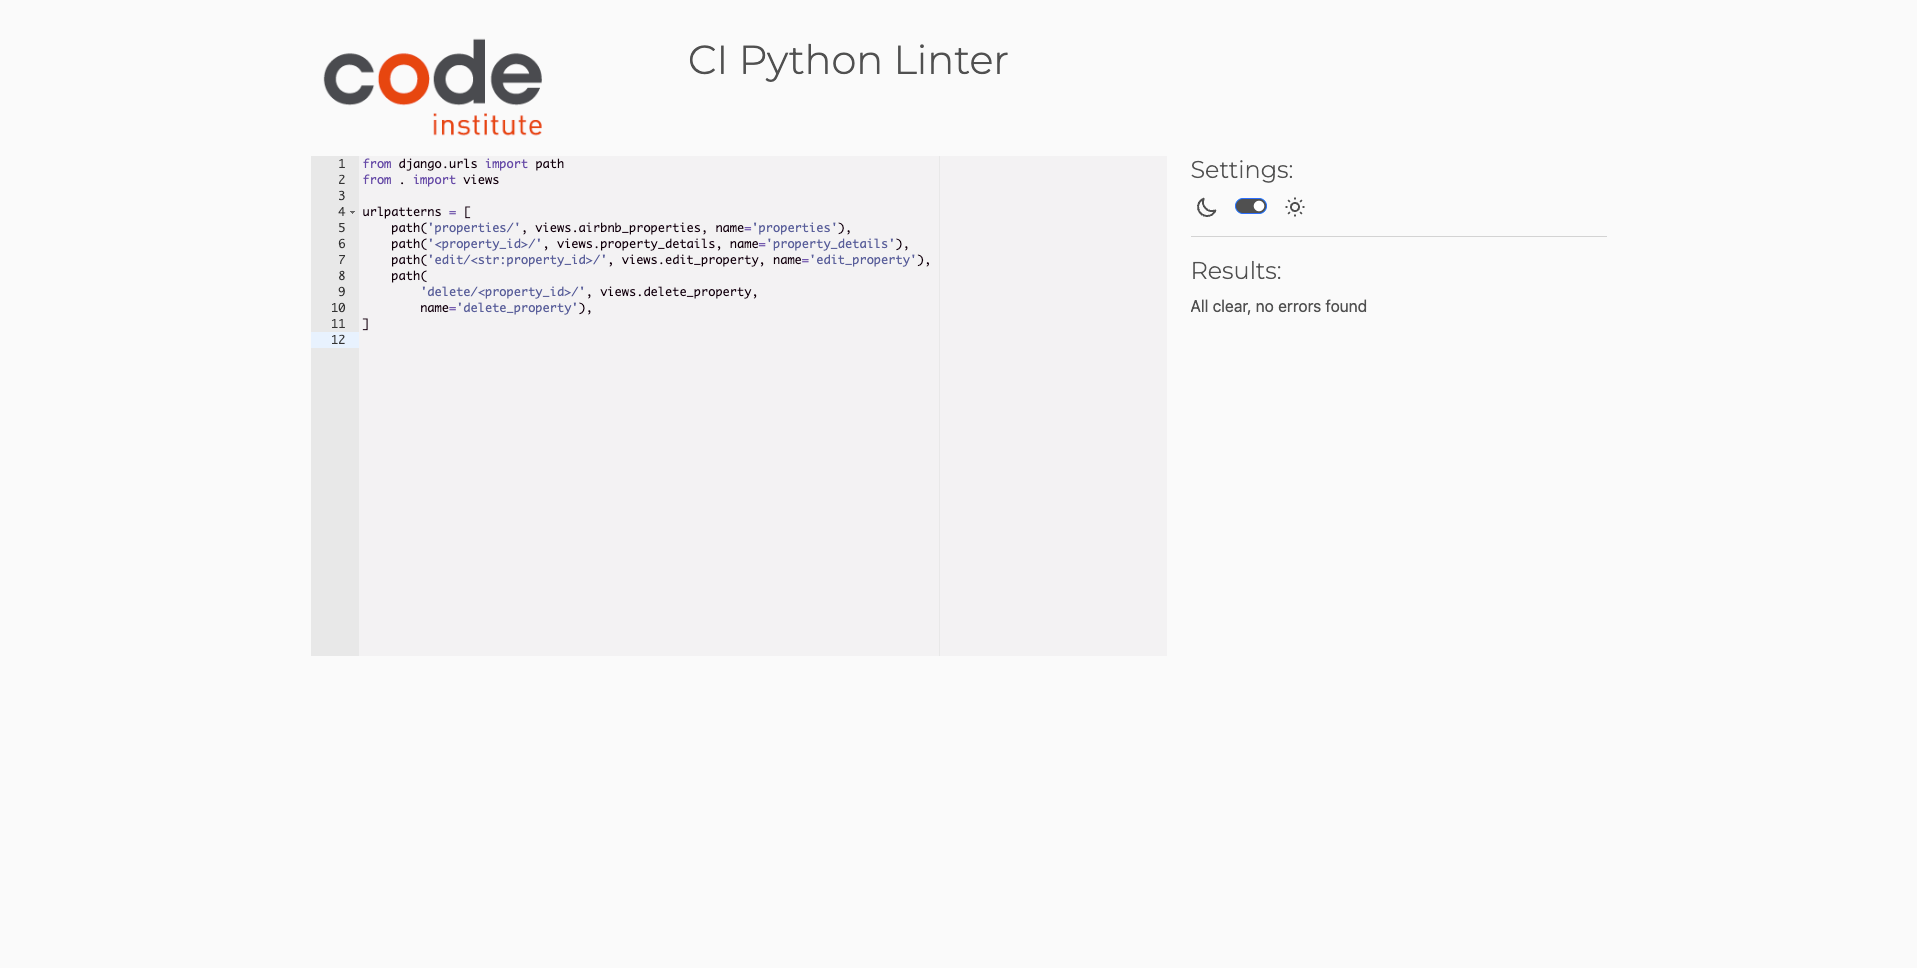
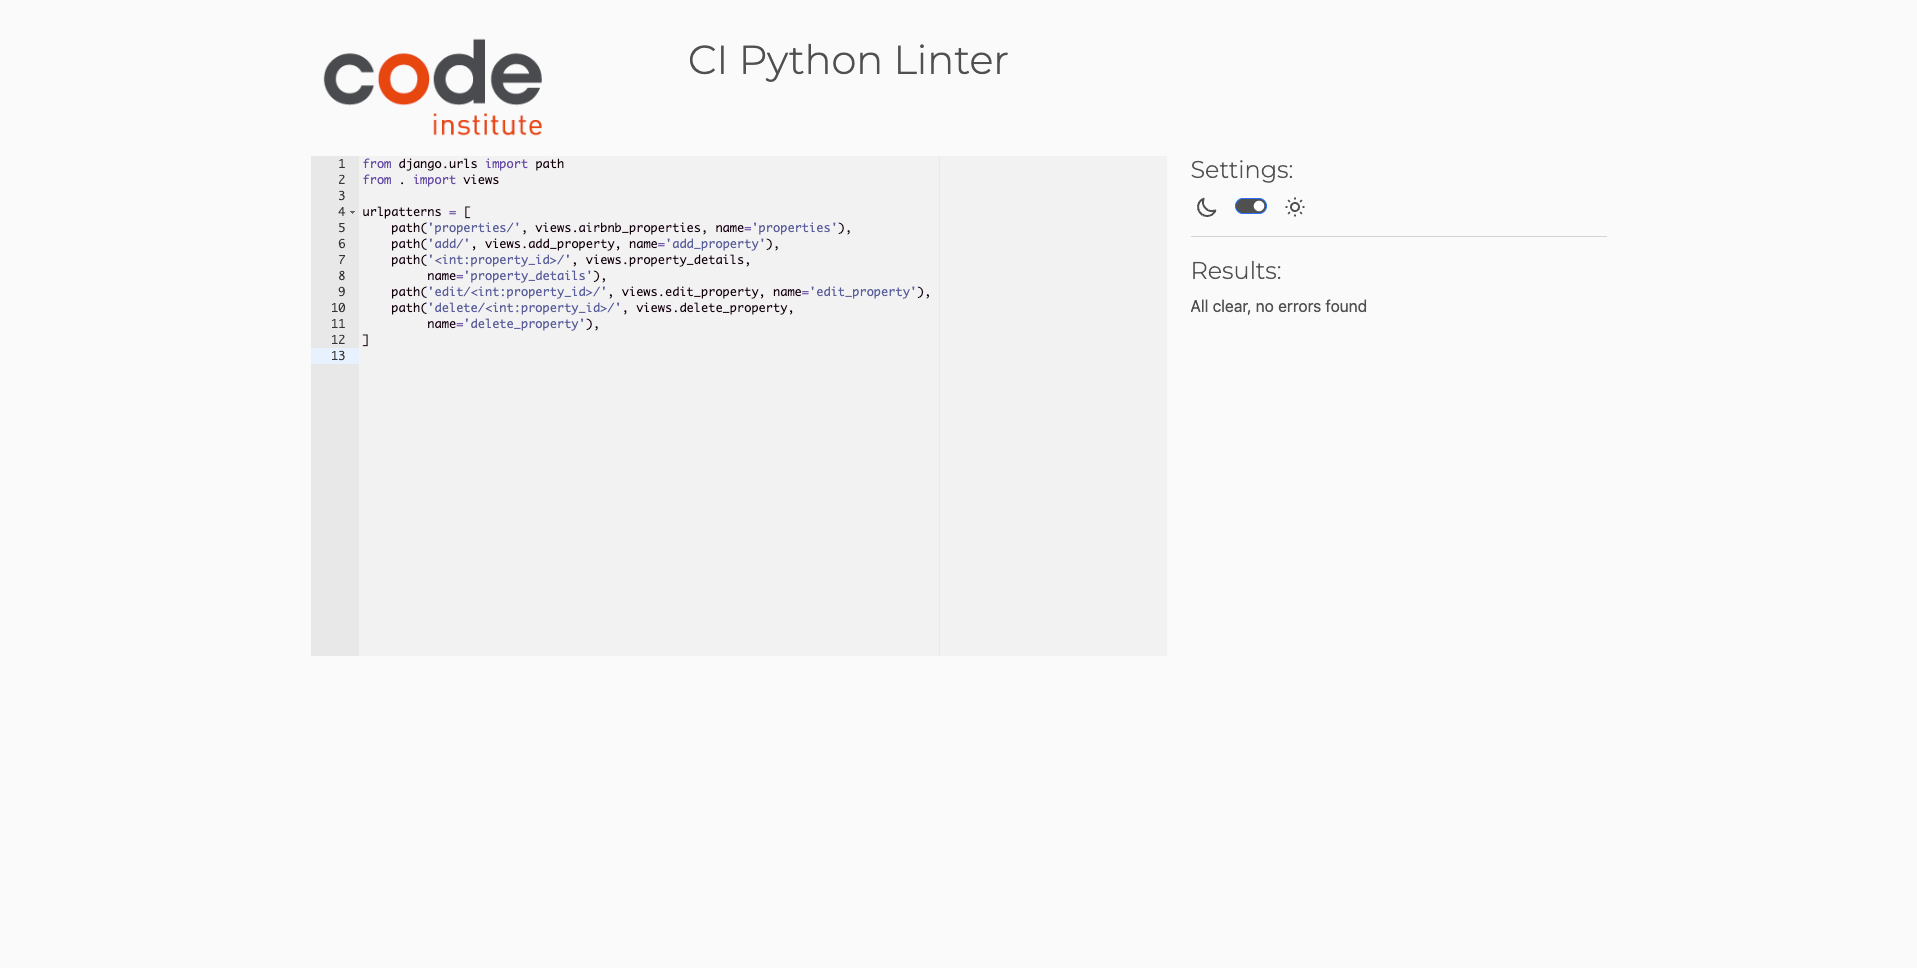
python updated for linting after adding add_property

Changed region(s): [[0.1847, 0.2479, 0.4924, 0.3409]]

diff --git a/checkout/views.py b/checkout/views.py
@@ -61,7 +61,8 @@ def checkout(request):
             total_days = current_cart['total_days']
             order.grand_total = current_cart['grand_total']
             order.total_days = total_days
-            order.stripe_pid = request.POST.get('client_secret').split('_secret')[0]
+            order.stripe_pid = request.POST.get(
+                'client_secret').split('_secret')[0]
             order.original_cart = json.dumps(cart)
             order.save()
             for item_id, item_data in cart.items():
@@ -70,11 +71,16 @@ def checkout(request):
                     taxi_price = property.distance_to_airport * 3
                     if isinstance(item_data, dict) and 'date_ranges' in item_data:
                         for date_range in item_data['date_ranges']:
-                            start_date_str, end_date_str = date_range.split(' - ')
-                            start_date = datetime.strptime(start_date_str, '%d %b %Y').date()
-                            end_date = datetime.strptime(end_date_str, '%d %b %Y').date()
+                            start_date_str, end_date_str = date_range.split(
+                                                           ' - ')
+                            start_date = datetime.strptime(start_date_str,
+                                                           '%d %b %Y').date()
+                            end_date = datetime.strptime(
+                                       end_date_str, '%d %b %Y').date()
                             days = (end_date - start_date).days
-                            sub_total = int(days * property.price_per_night) + int(taxi_price)
+                            sub_total = int(
+                                        days * property.price_per_night) + int(
+                                taxi_price)
                             order_line_item = OrderLineItem(
                                 order=order,
                                 property=property,
@@ -91,18 +97,25 @@ def checkout(request):
                     # Log or handle the error if date_range format is invalid
                     print(f"Date range format error: {e}")
                 except Property.DoesNotExist:
-                    messages.error(request, ("One of the properties in your cart wasn't found in our database. Please call us for assistance!"))
+                    messages.error(
+                        request, ("One of the properties in your cart "
+                                  "wasn't found in our database. "
+                                  "Please call us for assistance!"))
                     order.delete()
                     return redirect(reverse('cart'))
 
             request.session['save_info'] = 'save-info' in request.POST
-            return redirect(reverse('checkout_success', args=[order.order_number]))
+            return redirect(
+                reverse('checkout_success', args=[order.order_number]))
         else:
-            messages.error(request, 'There was an error with your form. Please double check your information.')
+            messages.error(
+                request, 'There was an error with your form. '
+                         'Please double check your information.')
     else:
         cart = request.session.get('cart', {})
         if not cart:
-            messages.error(request, "There's nothing in your cart at the moment")
+            messages.error(
+                request, "There's nothing in your cart at the moment")
             return redirect(reverse('properties'))
 
         current_cart = cart_contents(request)
@@ -143,22 +156,21 @@ def checkout(request):
 
 
 def booked_dates(request, property_id):
-    booked_dates = OrderLineItem.objects.filter(property_id=property_id).values_list('date_range', flat=True)
-    
+    booked_dates = OrderLineItem.objects.filter(
+            property_id=property_id).values_list('date_range', flat=True)
+
     excluded_dates = []
     for date_range in booked_dates:
-        if date_range:  # Check if date_range is not None
+        if date_range:
             start_date_str, end_date_str = date_range.split(' - ')
             start_date = datetime.strptime(start_date_str, '%d %b %Y')
             end_date = datetime.strptime(end_date_str, '%d %b %Y')
-            
             while start_date <= end_date:
-                excluded_dates.append(start_date.strftime('%Y-%m-%d'))  # Format should be yyyy-mm-dd
+                excluded_dates.append(
+                    start_date.strftime('%Y-%m-%d'))
                 start_date += timedelta(days=1)
-    
+
     return JsonResponse({'excluded_dates': excluded_dates})
-
-
 
 
 def checkout_success(request, order_number):
@@ -188,7 +200,8 @@ def checkout_success(request, order_number):
                 user_profile_form.save()
 
     messages.success(
-        request, f'Order successfully processed! Your order number is {order_number}.' 
+        request, f'Order successfully processed! '
+        'Your order number is {order_number}.'
         'A confirmation email will be sent to {order.email}.')
 
     if 'cart' in request.session:

diff --git a/airbnb_properties/views.py b/airbnb_properties/views.py
@@ -136,7 +136,8 @@ def edit_property(request, property_id):
             return redirect(reverse('property_details', args=[property.id]))
         else:
             messages.error(
-                request, 'Failed to update property. Please ensure the form is valid.')
+                request, 'Failed to update property.'
+                'Please ensure the form is valid.')
     else:
         form = PropertyForm(instance=property)
         messages.info(request, f'You are editing {property.name}')
@@ -167,7 +168,8 @@ def add_property(request):
             return redirect(reverse('property_details', args=[property.id]))
         else:
             messages.error(
-                request, 'Failed to add property. Please ensure the form is valid.')
+                request, 'Failed to add property. '
+                'Please ensure the form is valid.')
     else:
         form = PropertyForm()
 

diff --git a/checkout/urls.py b/checkout/urls.py
@@ -5,8 +5,10 @@ from .webhooks import webhook
 
 urlpatterns = [
     path('', views.checkout, name='checkout'),
-    path('checkout_success/<order_number>/', views.checkout_success, name='checkout_success'),
-    path('cache_checkout_data/', views.cache_checkout_data, name='cache_checkout_data'),
+    path('checkout_success/<order_number>/', views.checkout_success,
+         name='checkout_success'),
+    path('cache_checkout_data/', views.cache_checkout_data,
+         name='cache_checkout_data'),
     path('wh/', webhook, name='webhook'),
     path('booked_dates/<property_id>/', booked_dates, name='booked_dates'),
 ]

diff --git a/airbnb_properties/urls.py b/airbnb_properties/urls.py
@@ -4,7 +4,9 @@ from . import views
 urlpatterns = [
     path('properties/', views.airbnb_properties, name='properties'),
     path('add/', views.add_property, name='add_property'),
-    path('<int:property_id>/', views.property_details, name='property_details'),
+    path('<int:property_id>/', views.property_details,
+         name='property_details'),
     path('edit/<int:property_id>/', views.edit_property, name='edit_property'),
-    path('delete/<int:property_id>/', views.delete_property, name='delete_property'),
+    path('delete/<int:property_id>/', views.delete_property,
+         name='delete_property'),
 ]

diff --git a/TESTING.md b/TESTING.md
@@ -180,7 +180,32 @@ From line 133, column 3; to line 133, column 65
 
 iv>↩↩  ↩  <input type="hidden" name="next" value="/properties/edit/2/" />↩  ↩  `
 
-This appeared to be from django's property.id passing through for editing the property, and this appeared to be correct still so was left alone.
+This appeared to be from django's property.id passing through for editing the property, and this appeared to be correct still so was left alone. I checked this by looking through the directory of my code and searching for the code itself. As can be seen it does not exist in the code that i created so must be backend from django. This may also be caused as superuser/ admin needs to be logged in to view these pages.
+
+![edit_property.html HTML issue search](readme_testing_media/html_validation/edit_property_html_search.png)
+
+Here is result with the issue left:
+
+![edit_property.html HTML pass](readme_testing_media/html_validation/html_edit_property_pass.png)
+
+---
+
+**Add_property.html - URL Validation**
+
+Checked URL validation showed one error which was a space at the end of an element:
+
+`Trailing slash on void elements has no effect and interacts badly with unquoted attribute values. This may also be caused as superuser/ admin needs to be logged in to view these pages.
+
+From line 133, column 3; to line 133, column 62
+
+iv>↩↩  ↩  <input type="hidden" name="next" value="/properties/add/" />↩  ↩  `
+
+This gives the same error as 
+![edit_property.html HTML issue search](readme_testing_media/html_validation/edit_property_html_search.png)
+
+Here is result with the issue left:
+
+![add_property.html HTML pass](readme_testing_media/html_validation/html_add_property_pass.png)
 
 ---
 
